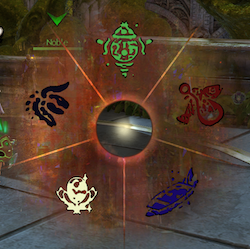
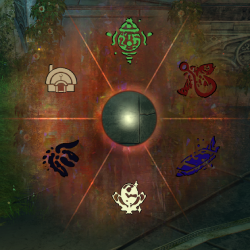
Added support for JW Summon Conjured Doorway

diff --git a/README.md b/README.md
@@ -5,7 +5,7 @@
 * [Instalation](#instalation)
 
 ## General info
-This Menu add to GW2 Radial a new wheel with the Options to put the Jade Bot Personal Waypoint, Start Fishing, Summon Skiff, Scan for Rift, Skyscale launch.\
+This Menu add to GW2 Radial a new wheel with the Options to put the Jade Bot Personal Waypoint, Start Fishing, Summon Skiff, Scan for Rift, Skyscale launch and Summon Conjured Doorway.\
 ![BEOD Menu](/readme_images/mastery_skills_wheel.png)
 
 ## Prerequisites
